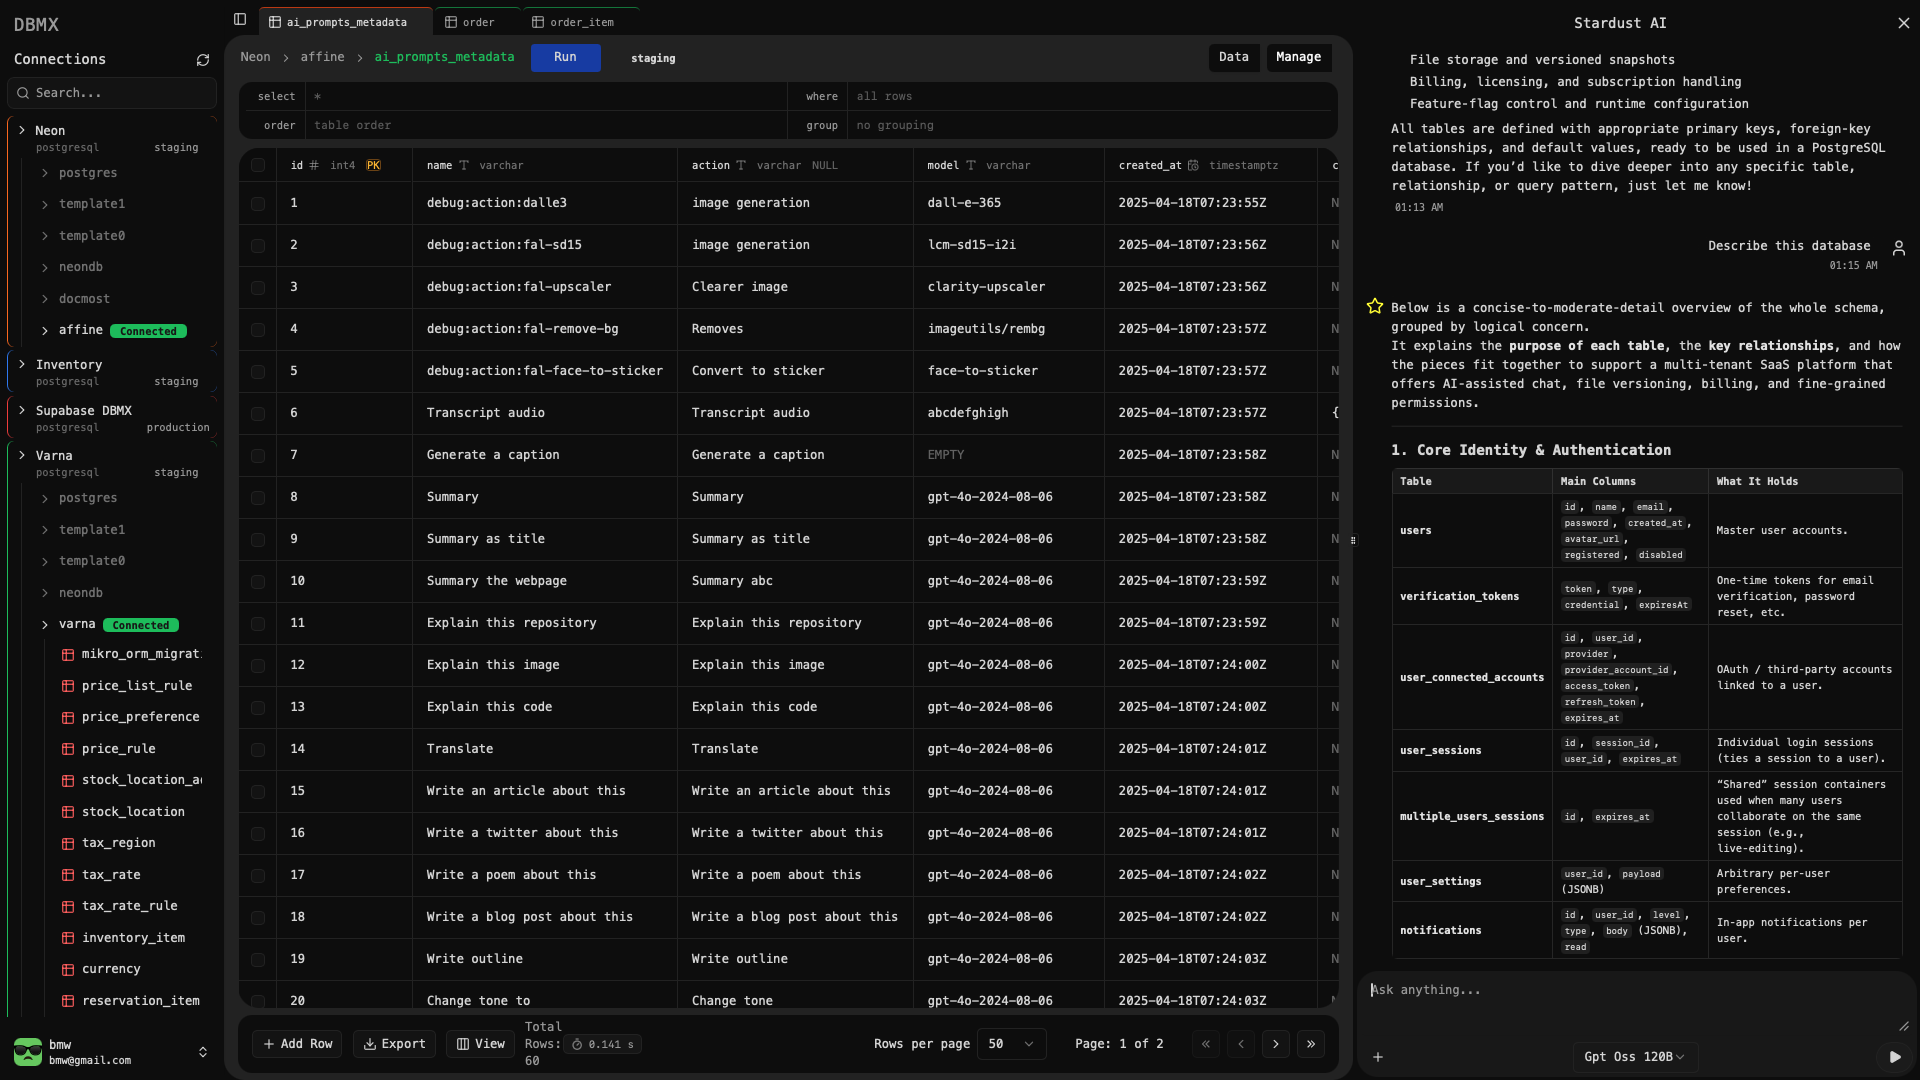
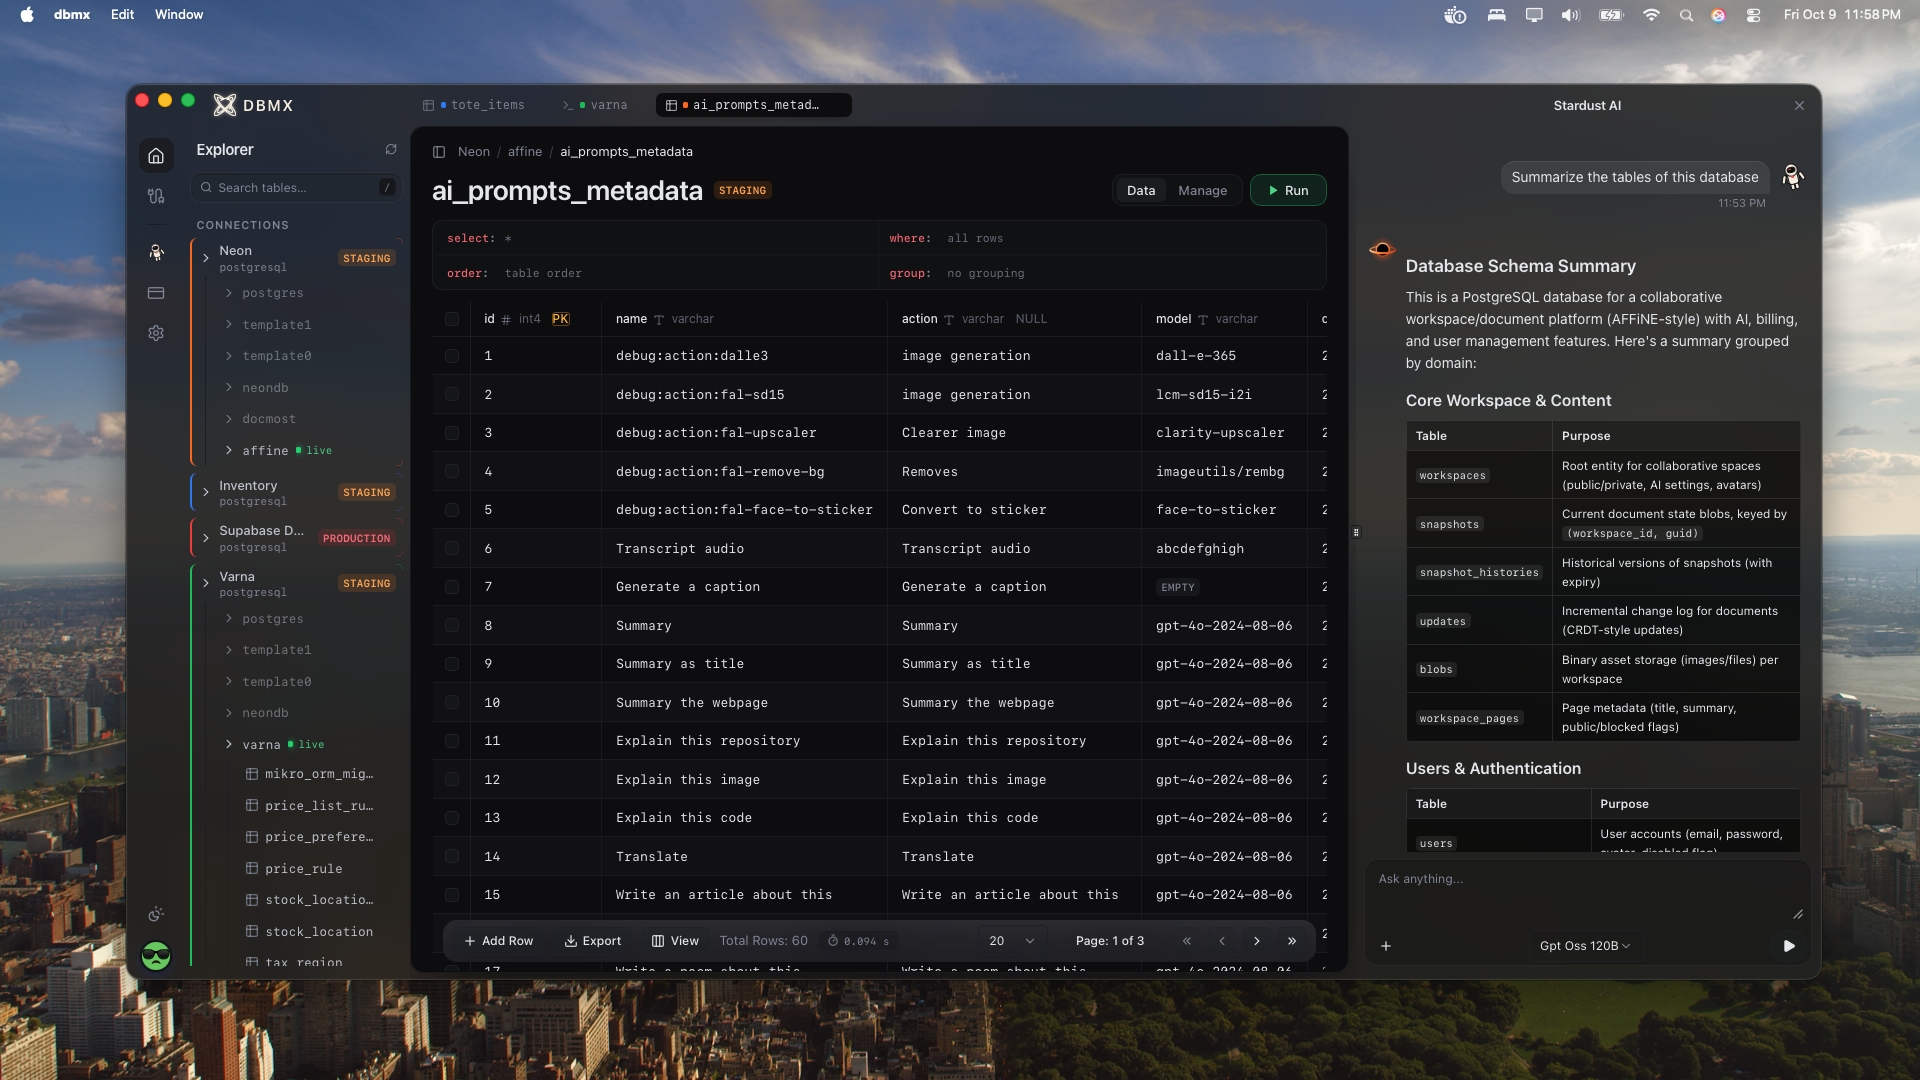
new hero product image

diff --git a/components/sections/hero.tsx b/components/sections/hero.tsx
@@ -106,7 +106,7 @@ export function Hero() {
             {/* Served as the original PNG: re-encoding blurs the small monospace text. */}
             <Image
               src={appScreenshot}
-              alt="DBMX showing a database table in the data grid, with Stardust AI describing the database schema alongside"
+              alt="DBMX on the macOS desktop, showing a database table in the data grid with Stardust AI summarizing the database schema alongside"
               unoptimized
               sizes="(min-width: 1280px) 1184px, 100vw"
               priority
